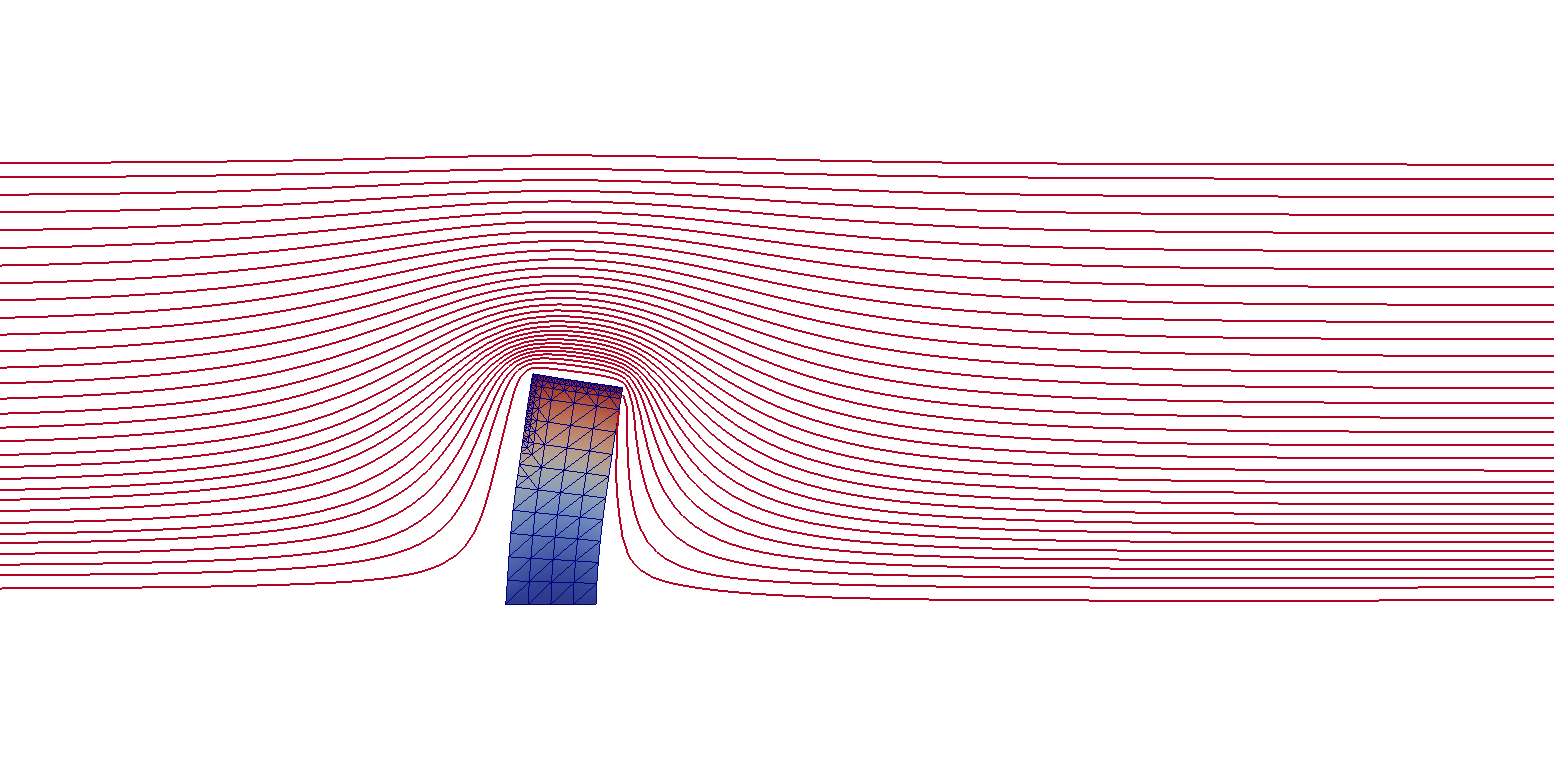
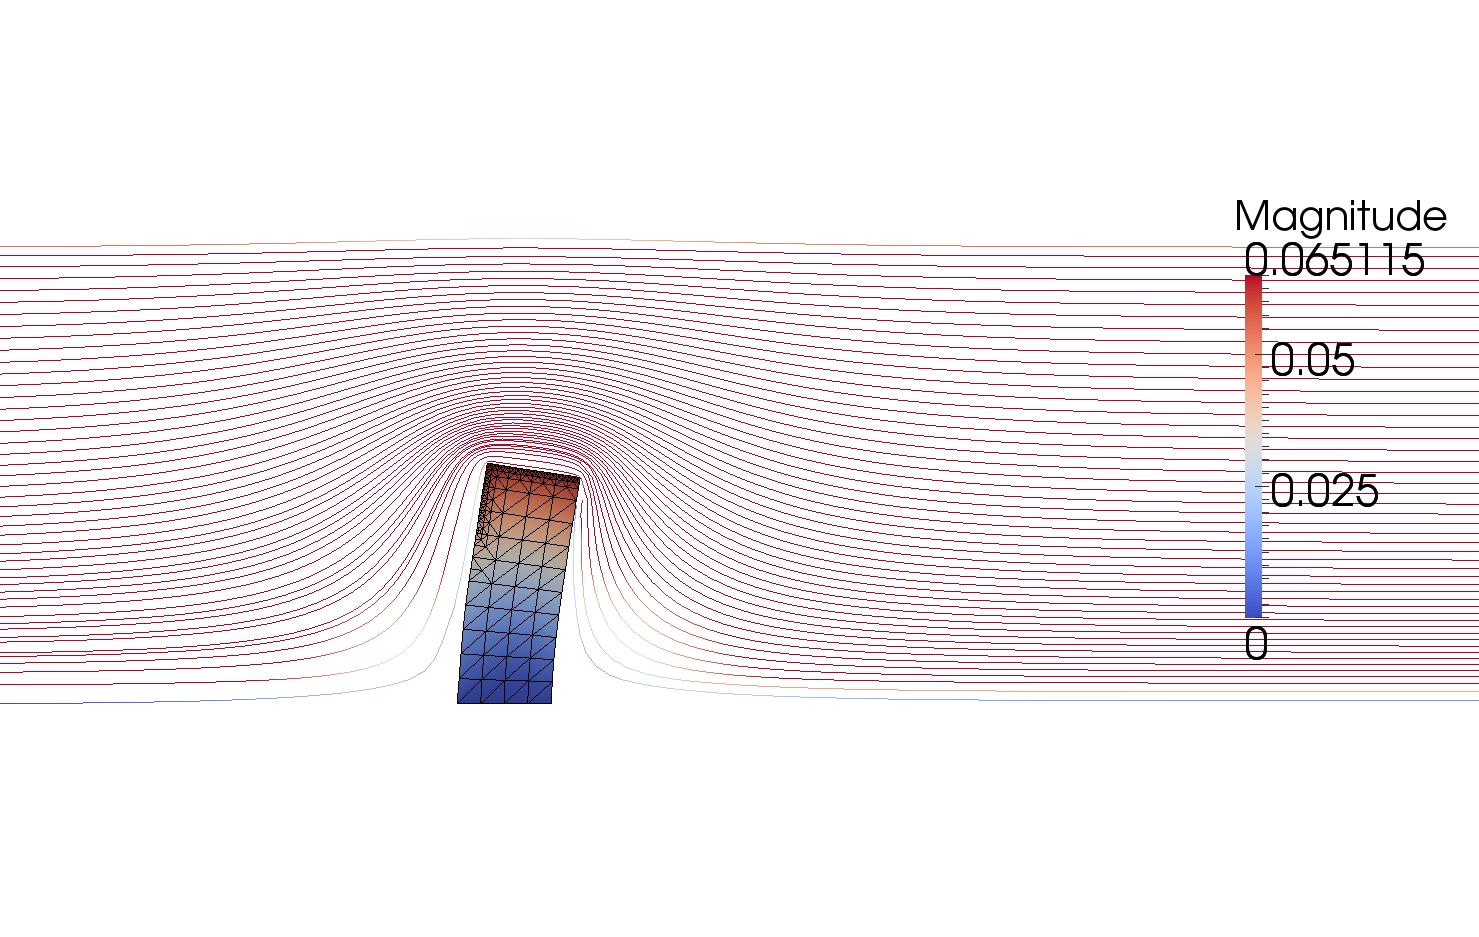
Added revised version of [selim]

Changed region(s): [[0.0, 0.2124, 1.0, 0.8193]]

diff --git a/unfinished/selim/chapter.tex b/unfinished/selim/chapter.tex
@@ -54,11 +54,13 @@
 %------------------------------------------------------------------------------
 Fluid--structure interaction (FSI) occurs when a fluid interacts with
 a solid structure, exerting a stress that causes deformation of the
-structure and, thus, alters the flow of the fluid itself. This vast
-category of multiphysics problems are of great importance for
-industrial related engineering applications, such as aircraft flutter,
-and for the study of the human respiratory system, which is a highly
-relevant research topic in biomedicine. The FSI problem is a fully
+structure and, thus, alters the flow of the fluid itself. 
+%% This vast
+%% category of multiphysics problems are of great importance for
+%% industrial related engineering applications, such as aircraft flutter,
+%% and for the study of the human respiratory system, which is a highly
+%% relevant research topic in biomedicine. 
+The FSI problem is a fully
 coupled multiphysics problem, whether the problem is solved in a
 partitioned manner or by a monolithic approach. However, in many cases
 we are only interested in one physical output quantity of the fully
@@ -101,11 +103,10 @@ given by normal stresses and at the common fluid--structure boundary,
 the following equilibrium equation holds:
 \begin{equation}
 \label{selim:eq:traction}
-\sigma_{_{F}}\cdot n_{_{F}} = \sigma_{_{S}}\cdot n_{_{S}},
+\sigma_{_{F}}\cdot n =  \sigma_{_{S}}\cdot n, 
 \end{equation}
-where the fluid and structure normals are oriented such that
-$n_{_{F}}= -n_{_{S}}$.  How a continuum responds to stress and in
-particular to shear stress, distinguishes a fluid continuum from a
+where $n$ denotes the normal.  How a continuum responds to stress and
+in particular to shear stress, distinguishes a fluid continuum from a
 solid continuum. A fluid cannot withstand shear forces; it will
 continue to deform as long as the stress is applied. Solids, on the
 other hand, respond with an angular strain and the strain continues
@@ -200,8 +201,8 @@ computational setting, the fluid traction force from
 problem~\eqref{selim:eq:NSmom}-\eqref{selim:eq:NScon} is transferred
 to the structure
 problem~\eqref{selim:eq:SVKmom}-\eqref{selim:eq:SVKcon} via the Piola
-map $(j\; (\sigma_{_{F}}\circ \phi)\cdot f^{-\top})\cdot n_{_{F}} =
-\sigma_{_{S}}\cdot n_{_{S}}$ at the common fluid--structure boundary.
+map $(j\; (\sigma_{_{F}}\circ \phi)\cdot f^{-\top})\cdot n =
+\sigma_{_{S}}\cdot n$ at the common fluid--structure boundary.
 The deformation of the structure, given by the structure solution in
 the material domain, needs to be tracked in the spatial fluid domain
 and consequently, the mesh in the spatial fluid domain has to be
@@ -318,8 +319,8 @@ domain at the common fluid--structure boundary such that:
   \addtolength{\fboxsep}{5pt} \boxed{
     \begin{split}\label{selim:eq:ALEtraction}
       (J_{_{M}}\;(\sigmaF\circ\PhiM) \cdot F_{_{M}}^{-\top})\cdot
-      N_{_{F}} &= \SigmaS\cdot N_{_{S}} \quad &\textrm{on}\; \Gamma_{FS}\\
-      \uF\circ\PhiM &= \dot{\Phi}_{_{S}} \quad &\textrm{on}\; \Gamma_{FS}\\
+      N_{_{F}} &= \SigmaS\cdot N_{_{S}} \quad &\textrm{on}\; \Gamma_{_{FS}}\\
+      \uF\circ\PhiM &= \dot{\Phi}_{_{S}} \quad &\textrm{on}\; \Gamma_{_{FS}}\\
     \end{split}
   }
 \end{equation}
@@ -382,12 +383,12 @@ mechanics. To solve the coupled system, a solver framework for
 handling both types of physics is needed. For this purpose, we have
 used the multiphysics framework \emp{CBC.Solve} developed at the
 Center for Biomedical Computing at Simula Research Laboratories in
-Oslo. Currently, \emp{CBC.Solve} consists two core components;
-\emp{CBC.Flow} and \emp{CBC.Twist} which are frameworks
-explicitly developed for solving fluid mechanics problems and
-structure mechanics problems, respectively.  In the subsequent
-sections, we will briefly explain these frameworks and the code that
-solves the FSI problem~\eqref{selim:eq:FSIsystem}.
+Oslo. Currently, \emp{CBC.Solve} consists of two core components;
+\emp{CBC.Flow} and \emp{CBC.Twist} which are frameworks explicitly
+developed for solving fluid mechanics problems and structure mechanics
+problems, respectively.  In the subsequent sections, we will briefly
+explain these frameworks and the code that solves the FSI
+problem~\eqref{selim:eq:FSIsystem}.
 
 %------------------------------------------------------------------------------
 \subsection{Fluid subproblem}
@@ -492,22 +493,24 @@ models, see Chapter~\ref{chap:narayanan}.
 \begin{figure}
 \label{selim:fig:structuresolver}
 \caption{A code segment from the $cG(1)$ version of the structure
-  solver \emp{CBC.Twist}.  The momentum equation is multiplied with
-  test functions \emp{v}, \emp{q} and adding the two equations
-  yields the nonlinear variational form \emp{L}. The nonlinear
-  variational form \emp{L} contains the structure velocity
-  \emp{p} and the first Piola--Kirchhoff stress tensor
-  \emp{sigma} (which is a function of the structure
-  displacement $\US$).  The nonlinear form \emp{L} is
-  linearized using the FEniCS function \emp{derivative} where
-  \emp{U} represents the mixed finite element space containing the
-  structure solution $(\US, P_{_{S}})$.  We note that Neumann
-  conditions, such a fluid stress, are imposed in the variational form
-  \emp{L} while the Dirichlet conditions are set directly in the
-  Newton solver. We also note that the proposed variational form holds
-  for a vast amount of different structure models, where the first
-  Piola--Kirchhoff stress tensor \emp{sigma} is given by an
-  appropriate material model.  }
+  solver \emp{CBC.Twist}. In the $cG(1)$ method, the structure problem
+  is re-written as a first order system in time by introducing the
+  additional equation $P_{_{S}} - \dot{U}_{_{S}} = 0$ to the structure
+  equation $(S)$ in~\eqref{selim:eq:FSIsystem}. The two resulting
+  equations are multiplied with test functions \emp{v} and \emp{q}
+  respectively, and adding the two equations yields the nonlinear
+  variational form \emp{L}. The nonlinear variational form \emp{L}
+  contains the structure velocity \emp{p} and the first
+  Piola--Kirchhoff stress tensor \emp{sigma} (which is a function of
+  the structure displacement $\US$).  The nonlinear form \emp{L} is
+  linearized using the FEniCS function \emp{derivative} where \emp{U}
+  represents the mixed finite element space containing the structure
+  solution $(\US, P_{_{S}})$.  We note that Neumann conditions, such a
+  fluid stress, are imposed in the variational form \emp{L} while the
+  Dirichlet conditions are set directly in the Newton solver. We also
+  note that the proposed variational form holds for a vast amount of
+  different structure models, where the first Piola--Kirchhoff stress
+  tensor \emp{sigma} is given by an appropriate material model.  }
 \begin{python}
 class CG1MomentumBalanceSolver(CBCSolver):
     """Solves the dynamic balance of linear momentum using a CG1
@@ -557,6 +560,10 @@ Figure~\ref{selim:fig:meshsolver}.
   L = inner(u0, v)*dx - 0.5*k*inner(sigma(u0), sym(grad(v)))*dx
 \end{python}
 \end{figure}
+The Dirichlet boundary conditions on the mesh subproblem are imposed
+weakly through the introduction of the Lagrange multiplier,
+$P_{_{M}}$. This choice introduces coupling between the mesh and
+structure subproblems in the linearised adjoint problem.
 
 %------------------------------------------------------------------------------
 \section{Duality--based error control}
@@ -646,20 +653,29 @@ and so on. The interpretation of the individual blocks
 in~\eqref{selim:eq:dualsystem} is that, for instance,
 $\hat{v}_{_{F}}\ASF^{\top}\hat{Z}_{_{S}} $ is interpreted as
 $\overline{a}^*_{_{SF}}(\hat{Z}_{_{S}}, \hat{v}_{_{F}})$ which is the
-(adjoint) structure form linearized around the fluid variables.  The
-grey colored entries are by definition zero and we note that $\AMS
-\neq 0$ by the introduction of the dual mesh Lagrange multiplier
+(adjoint) structure form linearized around the fluid variables.  We
+notice that the $\textcolor{grey}{\AFS}$ is zero since the fluid
+problem linearized around the structure variables are identically
+zero. Thus, the grey colored entries are by definition zero and that
+$\AMS \neq 0$ by the introduction of the dual mesh Lagrange multiplier
 $Y_{_{M}}$. We also notice that in order for the error
 representation~\eqref{selim:eq:representation} to be consistent, the
 corresponding dual trial and test spaces are defined as $(V^*,
-\hat{V}^*) = (\hat{V}, V_{0, \psi^T})$, with $V_{0,\psi^T} =
-\{v=w_1-w_2:\;w_1,w_2\in V , \;v(\cdot, T) = \psi^T \}$. Thus, the
-Riesz's representer $\psi^T$ is an initial condition in the dual
-problem and the dual problem~\eqref{selim:eq:dual} runs backwards in
-time.  In the computations, the stated dual
+\hat{V}^*)=(\hat{V}_{\psi^T}, V_0)$, where $\hat{V}_{\psi^T} = \{v\in
+\hat{V} : v(\cdot, T) = \psi^T \}$ and $V_0 = \{v-w:\;v,w\in V
+\}$. Thus, the Riesz's representer $\psi^T$ is an initial condition in
+the dual problem and the dual problem~\eqref{selim:eq:dual} runs
+backwards in time. In the computations, the stated dual
 problem~\eqref{selim:eq:dual} is replaced by the approximated
 linearized form $\overline{a}^{*}(Z, v) \equiv a'^{*}(U,U^{hk}; Z, v)
 \approx a'^{*}(U^{hk}, U^{hk}; Z, v) $.
+
+%% The grey colored entries are by definition zero and we note that $\AMS
+%% \neq 0$ by the introduction of the dual mesh Lagrange multiplier
+%% $Y_{_{M}}$. 
+%% $(V^*,
+%% \hat{V}^*) = (\hat{V}, V_{0, \psi^T})$, with $V_{0,\psi^T} =
+%% \{v=w_1-w_2:\;w_1,w_2\in V , \;v(\cdot, T) = \psi^T \}$.
 
 Based on the solution of the dual, we obtain the following computable
 error representation of the goal functional:
@@ -708,28 +724,62 @@ r(\pi_{hk}Z)
 Here, $E_h$ estimates the space discretization error which on each
 space-time slab $S_n = \mathcal{T} \times I_n$ is expressed as the sum
 of error indicators $R_T$ and $R_{\partial T}$ from the cells of the
-mesh, weighted by the dual solution. The time discretization error
-estimate $E_k$ consist of the local time step size $k_n$ multiplied
-with a local algebraic (assembled) residual $r_k^n$ and the global
-stability factor $\mathcal{S}(T) \approx \int_0^T \| \dot{Z}
-\|_{l^2}\dt$. Finally, the computational error estimate $E_c$ accounts
-for the error introduced when the proposed Galerkin method is solved
-using a non-Galerkin method, e.g. the IPCS for the fluid
-subproblem. Also, in addition to the proposed mesh equation, an
-additional local mesh smoothing is added to the fluid mesh.  For a
-more comprehensive discussion and derivation of this a posteriori
-estimate, see~\cite{SelimNarayananEtAl2010}.
+mesh, weighted by the dual solution. How these indicators are
+implemented is illustrated in Figure~\ref{selim:fig:strong_residuals}.
+
+\begin{figure}
+\caption{A code segment illustrating the element wise space error
+  indicators. The indicators consists of three parts where each
+  subproblem is represented. These estimates are obtained by element
+  wise integration by parts of the finite element formulation which is
+  weighted by the dual solution. This results in element indicators
+  $R_T$ defined on the cells and jump terms $R_{\partial T}$ across
+  element edges. Here, \emp{w} represents a discontinuous function of
+  order zero and \emp{jump} denotes the jump across an element edge
+  \emp{dS}. The difference $Z -\pi_h Z$ is approximated with \emp{EZ -
+    Z} where \emp{EZ} is the extrapolated finite element approximation
+  on a richer space and \emp{Z} is the finite element approximation.}
+\label{selim:fig:strong_residuals}
+\begin{python}
+    # Fluid residual contributions
+    R_F0 = w*inner(EZ_F - Z_F, Dt_U_F - div(Sigma_F))*dx_F
+    R_F1 = avg(w)*inner(EZ_F('+') - Z_F('+'), jump(dot(Sigma_F, N_F)))*dS_F
+    R_F2 = w*inner(EZ_F - Z_F, dot(Sigma_F, N_F))*ds
+    R_F3 = w*inner(EY_F - Y_F, div(J(U_M)*dot(inv(F(U_M)), U_F)))*dx_F
+
+    # Structure residual contributions
+    R_S0 = w*inner(EZ_S - Z_S, Dt_P_S - div(Sigma_S))*dx_S
+    R_S1 = avg(w)*inner(EZ_S('-') - Z_S('-'), jump(dot(Sigma_S, N_S)))*dS_S
+    R_S2 = w('-')*inner(EZ_S('-') - Z_S('-'), dot(Sigma_S('-') - Sigma_F('+'), -N_F('+')))*d_FSI
+    R_S3 = w*inner(EY_S - Y_S, Dt_U_S - P_S)*dx_S
+
+    # Mesh residual contributions
+    R_M0 = w*inner(EZ_M - Z_M, Dt_U_M - div(Sigma_M))*dx_F
+    R_M1 = avg(w)*inner(EZ_M('+') - Z_M('+'), jump(dot(Sigma_M, N_F)))*dS_F
+    R_M2 = w('+')*inner(EY_M - Y_M, U_M - U_S)('+')*d_FSI
+\end{python}
+\end{figure}
+The time discretization error estimate $E_k$ consist of the local time
+step size $k_n$ multiplied with a local algebraic (assembled) residual
+$r_k^n$ and the global stability factor $\mathcal{S}(T) \approx
+\int_0^T \| \dot{Z} \|_{l^2}\dt$. Finally, the computational error
+estimate $E_c$ accounts for the error introduced when the proposed
+Galerkin method is solved using a non-Galerkin method, e.g. the IPCS
+for the fluid subproblem. Also, in addition to the proposed mesh
+equation, an additional local mesh smoothing is added to the fluid
+mesh.  For a more comprehensive discussion and derivation of this a
+posteriori estimate, see~\cite{SelimNarayananEtAl2010}.
 
 %------------------------------------------------------------------------------
 \subsection{The adaptive algorithm}
 
-With the presented a posteriori error estimate
-in~\eqref{selim:eq:aposteriori} we construct an algorithm, based on a
-feedback process, that provides an adaptive space-time
-discretization such that~\eqref{selim:eq:goalTOL} holds. In order to
-determine the stopping criteria for the time discretization and for
-the space discretization, the user defined tolerance $\mathrm{TOL}$
-needs to be weighted such that
+With the a posteriori error estimate presented
+in~\eqref{selim:eq:aposteriori}, we construct an algorithm based on a
+feedback process that provides an adaptive space-time discretization
+such that~\eqref{selim:eq:goalTOL} holds. 
+In order to determine the stopping criteria for the space
+discretization and for the time discretization, the user defined
+tolerance $\mathrm{TOL}$ needs to be weighted such that
 \begin{equation}
 \mathrm{TOL} = \mathrm{TOL}_h + \mathrm{TOL}_k + \mathrm{TOL}_c,
 \end{equation}
@@ -804,6 +854,7 @@ Figure~\ref{selim:fig:adaptiveMAP}.
   is created.}
 \end{figure}
 
+
 \begin{figure}
 \label{selim:fig:FSISolver}
 \caption{The adaptive solver class \emp{FSISolver}. Here, the
@@ -875,7 +926,21 @@ class FSISolver(CBCSolver):
 \end{python}
 \end{figure}
 
-
+To summarize, the adaptive feedback process involves the following steps:
+\begin{enumerate}
+\item
+Solve the partitioned (primal) FSI problem~\eqref{selim:eq:FSIsystem} for
+$t\in(0,T]$. For each time step, determine the local time step size $k_n$
+  according to~\eqref{selim:eq:timestep2}. 
+\item
+Solve the dual problem~\eqref{selim:eq:dual} for $t\in(T,0]$ using the
+  same time step size as in the primal problem.
+\item
+Evaluate the error estimate~\eqref{selim:eq:aposteriori} and refine
+the computational domain in space.
+\item
+Repeat steps 1 -- 3 until $\M(e)\leq \mathrm{TOL}$.
+\end{enumerate}
 %------------------------------------------------------------------------------
 \section{Numerical examples}
 
@@ -900,11 +965,17 @@ $x_1$-direction, that is,
 \M_{_{S}}(v_{_{S}}) = \int_0^T \langle \psi^t_{_{S}},\;
 v_{_{S}}\rangle \dt,
 \end{equation}
-where $\psi^t_{_{S}} = (1,0)$. The adaptive primal FSI solution is
-depicted in Figure~\ref{selim:fig:primal_channel} and the
-corresponding dual solutions are illustrated in
-Figure~\ref{selim:fig:dual_channel_ZF}, Figure~\ref{selim:fig:dual_channel_ZS}
-and in Figure~\ref{selim:fig:dual_channel_ZM}.
+where $\psi^t_{_{S}} = (1,0)$. The physical parameters related to the
+problem is set to $(\rhoF,\mu_{_{F}}) = (1, 0.02)$,
+$(\rho_{_{S}},\mu_{_{S}}, \lambda_{_{S}}) = \tfrac{1}{4}(15, 75, 125)$
+and $(\mu_{_{M}}, \lambda_{_{M}}) = (3.8461, 5.76)$. The
+discretization parameters are set to $(\mathrm{TOL}, w_h, w_k,w_c) =
+(0.05, 0.45, 0.45, 0.1)$ with an initial time step size $0.02$. The
+adaptive primal FSI solution is depicted in
+Figure~\ref{selim:fig:primal_channel} and the corresponding dual
+solutions are illustrated in Figure~\ref{selim:fig:dual_channel_ZF},
+Figure~\ref{selim:fig:dual_channel_ZS} and in
+Figure~\ref{selim:fig:dual_channel_ZM}.
 \begin{figure*}
   \label{selim:fig:primal_channel}
   \caption{The adaptive FSI solution to the channel with flap problem
@@ -918,9 +989,7 @@ and in Figure~\ref{selim:fig:dual_channel_ZM}.
   \caption{A close view of the adaptive mesh. The mesh is refined in
     the immediate area around the structure. The problem is monotone
     in the sense that the structure bends until it reaches a fixed
-    position. The physical constants related to this problem are:
-    $(\rhoF,\mu_{_{F}}) = (1, 0.02)$ and $(\rho_{_{S}},\mu_{_{S}},
-    \lambda_{_{S}}) = \tfrac{1}{4}(15, 75, 125)$.}
+    position.}
   \includegraphics[width=0.95\textwidth]{chapters/selim/png/channel_test_zoom.png}
 \end{figure}
 \begin{figure}
@@ -963,9 +1032,9 @@ domain, the fluid has the regularized tangential velocity profile
 \uF =
 \left\{
 \begin{array}{lcl}
-4x,& &x\in[0, 0.25],\\
-1,& &x\in(0.25 ,1.75),\\
-4(2-x),&  &x\in[1.75, 2],
+2x,& &x\in[0, 0.25],\\
+0.5,& &x\in(0.25 ,1.75),\\
+2(2-x),&  &x\in[1.75, 2],
 \end{array}
 \right.
 \end{equation}
@@ -976,7 +1045,12 @@ $x_2$-direction, that is,
 \label{selim:eq:goalfunctional_cavity}
 \M_{_{S}}(v_{_{S}}) = \int_0^T \langle \psi^t_{_{S}},\; v_{_{S}}\rangle \dt,
 \end{equation}
-where $\psi^t_{_{S}}=(0,1)$. In contrast to the
+where $\psi^t_{_{S}}=(0,1)$.  The physical parameters related to the
+problem is set to $(\rhoF,\mu_{_{F}}) = (1, 1)$,
+$(\rho_{_{S}},\mu_{_{S}}, \lambda_{_{S}}) = (2, 3, 3)$ and
+$(\mu_{_{M}}, \lambda_{_{M}}) = (3.8461, 5.76)$. The discretization
+parameters are set to $(\mathrm{TOL}, w_h, w_k,w_c) = (0.5, 0.45,
+0.45, 0.1)$ with an initial time step size $0.05$.  In contrast to the
 previous problem, the solution, and in particular the structure
 displacement, varies substantially over time. The adaptive primal FSI
 solution is depicted in~Figure~\ref{selim:fig:primal_cavity} and the
@@ -987,11 +1061,8 @@ in~Figure~\ref{selim:fig:cavity_timestep}.
 \caption{The adaptive solution to the driven cavity problem with an
   elastic bottom at time $t=2$. The structure does not reach a steady
   position; instead the structure moves up and down at the common
-  fluid--structure boundary. In this problem, the physical parameters
-  are given by $(\rhoF,\mu_{_{F}}) = (1, 1)$ and
-  $(\rho_{_{S}},\mu_{_{S}}, \lambda_{_{S}}) = (1, 3, 3)$. In the
-  bottom figure a close up view of the refined mesh at the FSI boundary is
-  given.}
+  fluid--structure boundary. In the bottom figure a close up view of
+  the refined mesh at the FSI boundary is given.}
 \includegraphics[width=0.9\textwidth]{chapters/selim/png/cavity_large.png}
 
 \includegraphics[width=0.95\textwidth]{chapters/selim/png/zoom_cavity.png}
@@ -1012,8 +1083,17 @@ has been formulated and its implementation in FEniCS has been
 demonstrated. By relating the fully coupled partitioned FSI
 problem~\eqref{selim:eq:FSIsystem} in a moving domain to a dual
 problem~\eqref{selim:eq:dual} posed on a fixed reference domain, an
-adapted space and time discretization is obtained.
-
+adapted space and time discretization is obtained. 
+\\\\
+\emp{CBC.Solve} is a collaboratively developed open source project
+(released under the GNU GPL) that is freely available from its source
+repository at \url{https://launchpad.net/cbc.solve/}. Its only
+dependency is a working FEniCS installation. \emp{CBC.Solve} is
+released with the goal that it will allow users to easily solve fluid
+problems, structure and or FSI problems. Everyone is encouraged to
+fetch and try it.  Users are also encouraged to modify the code to
+better suit their own purposes, and contribute changes that they think
+are useful to the community.
 
 
 % Local Variables:
